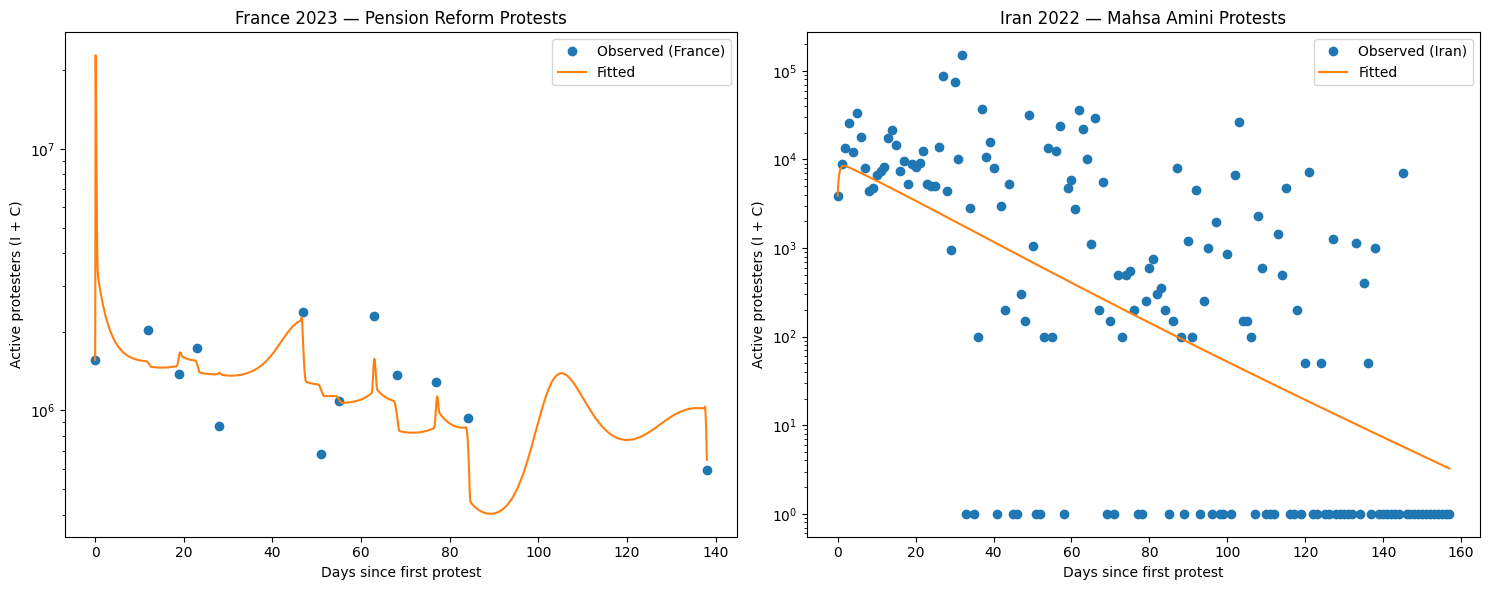
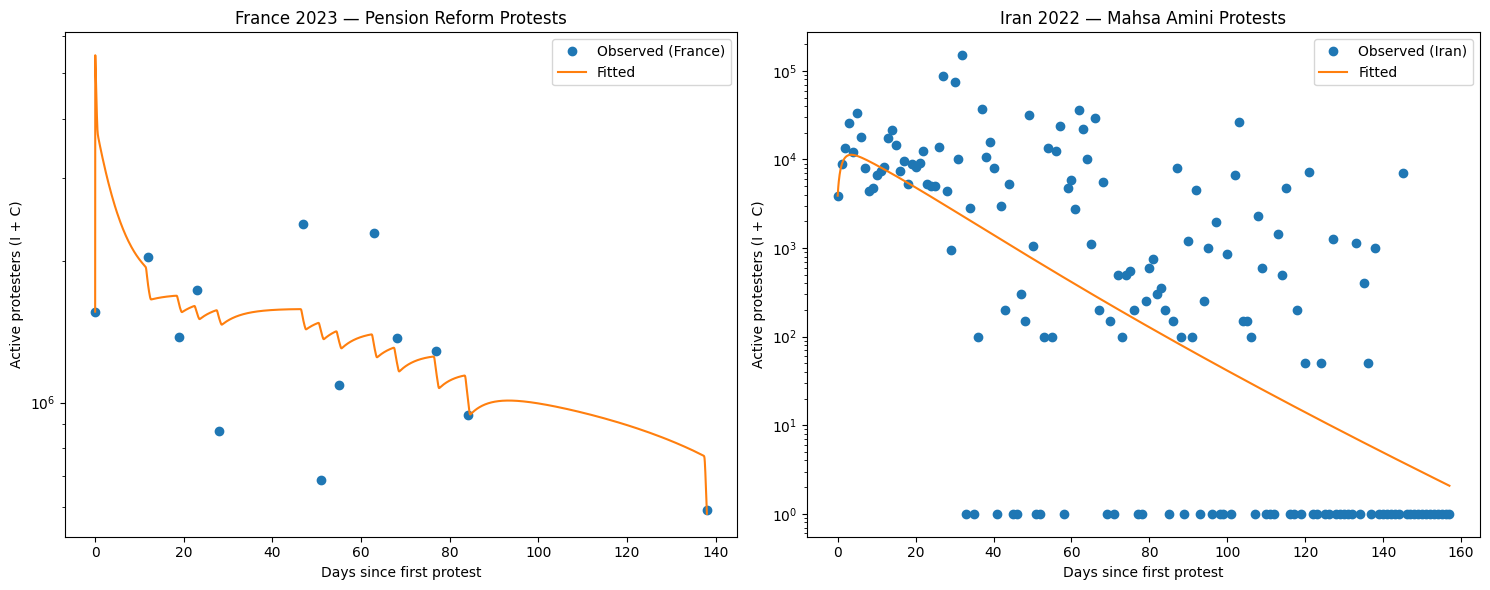
docs: explain model parameters & Iran data zero-arrest artifact in README; add same-scale comparison plot cell to notebook

diff --git a/sicr.py b/sicr.py
@@ -61,10 +61,10 @@ def loss(params, t_obs, N_obs, S0, protest_days):
     # bounds provides 9: b1, b2, chi, d11, d21, C0, eps0, eps12, eps22
     # Insert fixed parameters:
     if len(params) == 8:
-        full_params.insert(5, 0.010)   # fixed gamma
+        full_params.insert(5, 0.05)   # fixed gamma
         full_params.insert(7, 4.0)     # fixed n
     else:
-        full_params.insert(5, 0.010)   # fixed gamma
+        full_params.insert(5, 0.05)   # fixed gamma
         full_params.insert(7, 4.0)     # fixed n
     
     y0 = [S0, max(1, N_obs[0] * 0.1), max(1, N_obs[0] * 0.9), 0]

diff --git a/README.md b/README.md
@@ -71,17 +71,19 @@ The notebook contains the full pipeline: ODE system, `differential_evolution` fi
 
 ### Why these parameters are chosen
 
-| Parameter | Why it is chosen |
+| Parameter | Description / Physical Rationale |
 | --- | --- |
-| β1 | Captures baseline mobilisation pressure at low protest intensity and is calibrated to keep early dynamics realistic. |
-| β2 | Controls nonlinear mobilisation growth from social contagion effects, so it is tuned to match observed escalation. |
-| χ | Represents the strength of repression in reducing active mobilisation, so it is chosen to reflect demobilisation pressure. |
-| n | Sets the nonlinearity of transmission/saturation dynamics and is selected for stable, identifiable fits. |
-| C0 | Sets the initial scale of committed participants and anchors the model to observed starting conditions. |
-| δ1 | Governs direct retirement/disengagement under pressure and is chosen to reproduce decline speed in participation. |
-| δ2 | Adds higher-order retirement effects at larger protest sizes to capture stronger late-stage demobilisation. |
-| F1 | Controls repression-response saturation in the first forcing term and is calibrated to match intervention sensitivity. |
-| F2 | Controls repression-response saturation in the second forcing term and is calibrated for high-intensity regime behavior. |
+| $\beta_1$ | Transmission rate from Susceptible ($S$) to Informed ($I$) via contact with Informed individuals. Captures baseline mobilisation from active protesters. |
+| $\beta_2$ | Transmission rate from Susceptible ($S$) to Informed ($I$) via contact with Committed ($C$) individuals. Captures social contagion from fully committed participants. |
+| $\chi$ | Transition rate from Informed ($I$) to Committed ($C$) (representing protesters committing to the movement). |
+| $\delta_{11}$ | Baseline exit rate of Informed individuals to Retired ($R$). |
+| $\delta_{21}$ | Baseline exit rate of Committed individuals to Retired ($R$). |
+| $\gamma$ | Recovery rate from Retired ($R$) back to Susceptible ($S$), representing how quickly tired/arrested protesters re-enter the pool of potential participants. |
+| $C_0$ | Solidarity capacity threshold. When $I+C \gg C_0$, crowd solidarity reduces the disengagement/exit rate of Committed individuals. |
+| $n$ | Nonlinearity exponent governing the steepness of the crowd solidarity effect. |
+| $\epsilon_0$ | Recruitment enhancement factor on protest days (boosts transmission rates $\beta_1, \beta_2$). |
+| $\epsilon_{12}$ | Protest-day exit/repression enhancement factor for Informed individuals. |
+| $\epsilon_{22}$ | Protest-day exit/repression enhancement factor for Committed individuals. |
 
 ## GitHub Pages
 
@@ -89,4 +91,5 @@ The Jupyter Book is automatically built and deployed on every push to `main` via
 
 ## Assumptions & Limitations
 - **Data Proxy**: The Iran 2022 dataset provides the cumulative number of arrested individuals as opposed to crowd counts. We proxy the number of active protesters using the daily difference in arrests and an arbitrary scalar.
-- **Fixed Parameters**: To avoid identifiability issues on a short dataset, recovery rate `gamma` and the nonlinearity exponent `n` are fixed during fitting.
+- **Iran Data Zero-Arrest Artifact**: On days when no new arrests are added to the cumulative count (a flat trend), the daily difference is exactly `0`. When plotting on a log-scale, these zero-value days are capped at $1.0$ (via `np.maximum(1, N_ir)`), which creates the horizontal band of observed points visible at the bottom of the Iran chart.
+- **Fixed Parameters**: To avoid identifiability issues on a short dataset, the nonlinearity exponent $n$ (fixed at `4.0`) and the recovery rate $\gamma$ (fixed at `0.05`) are fixed during fitting.